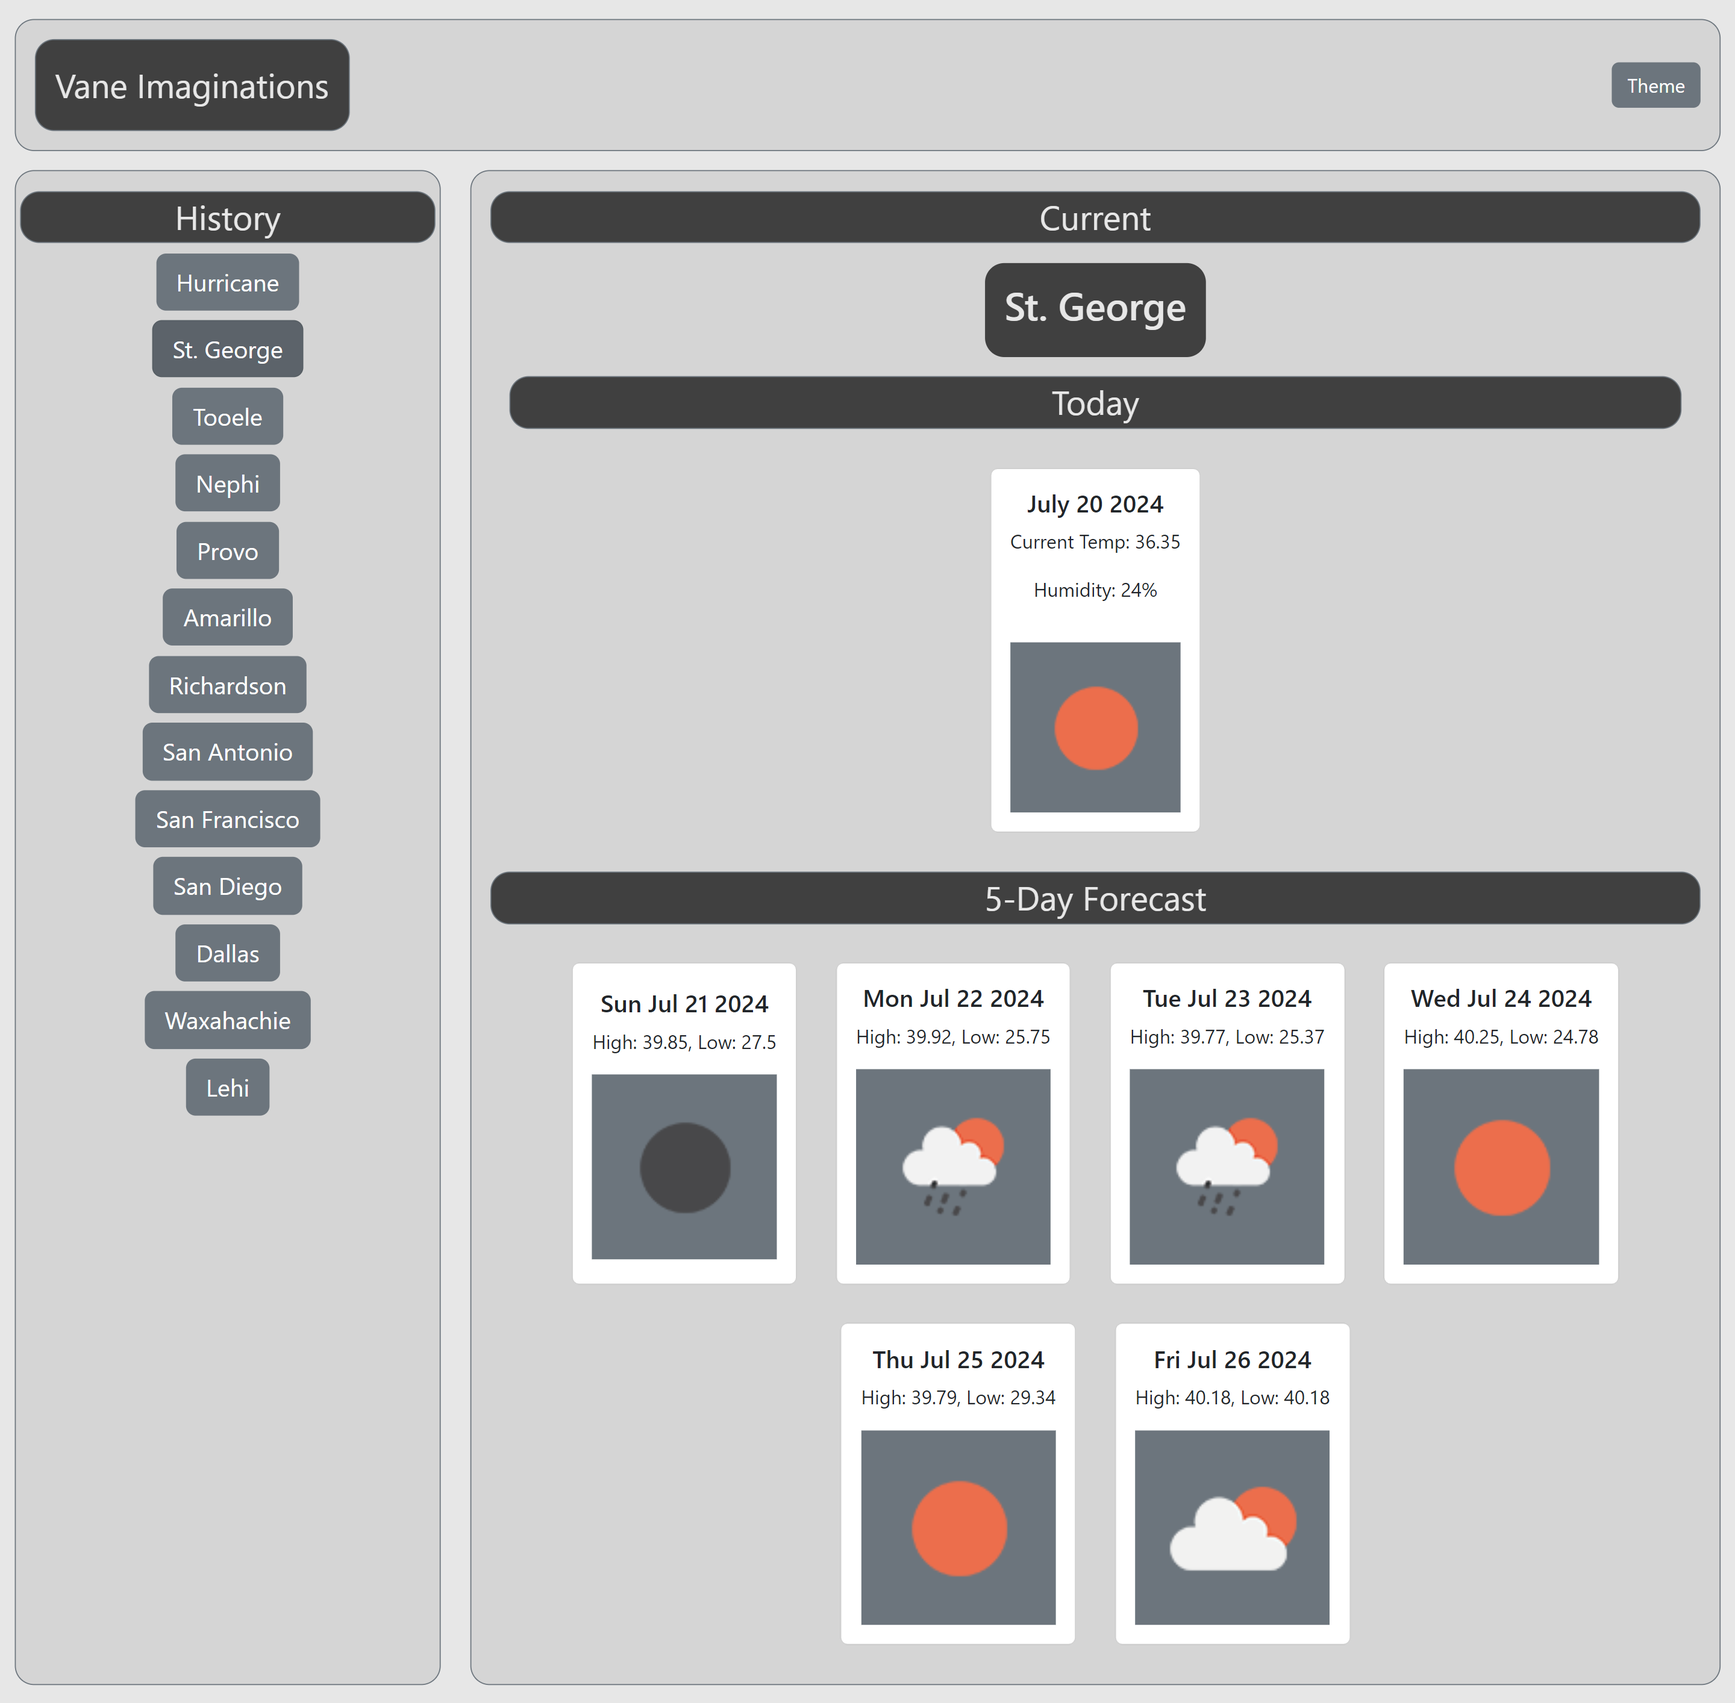
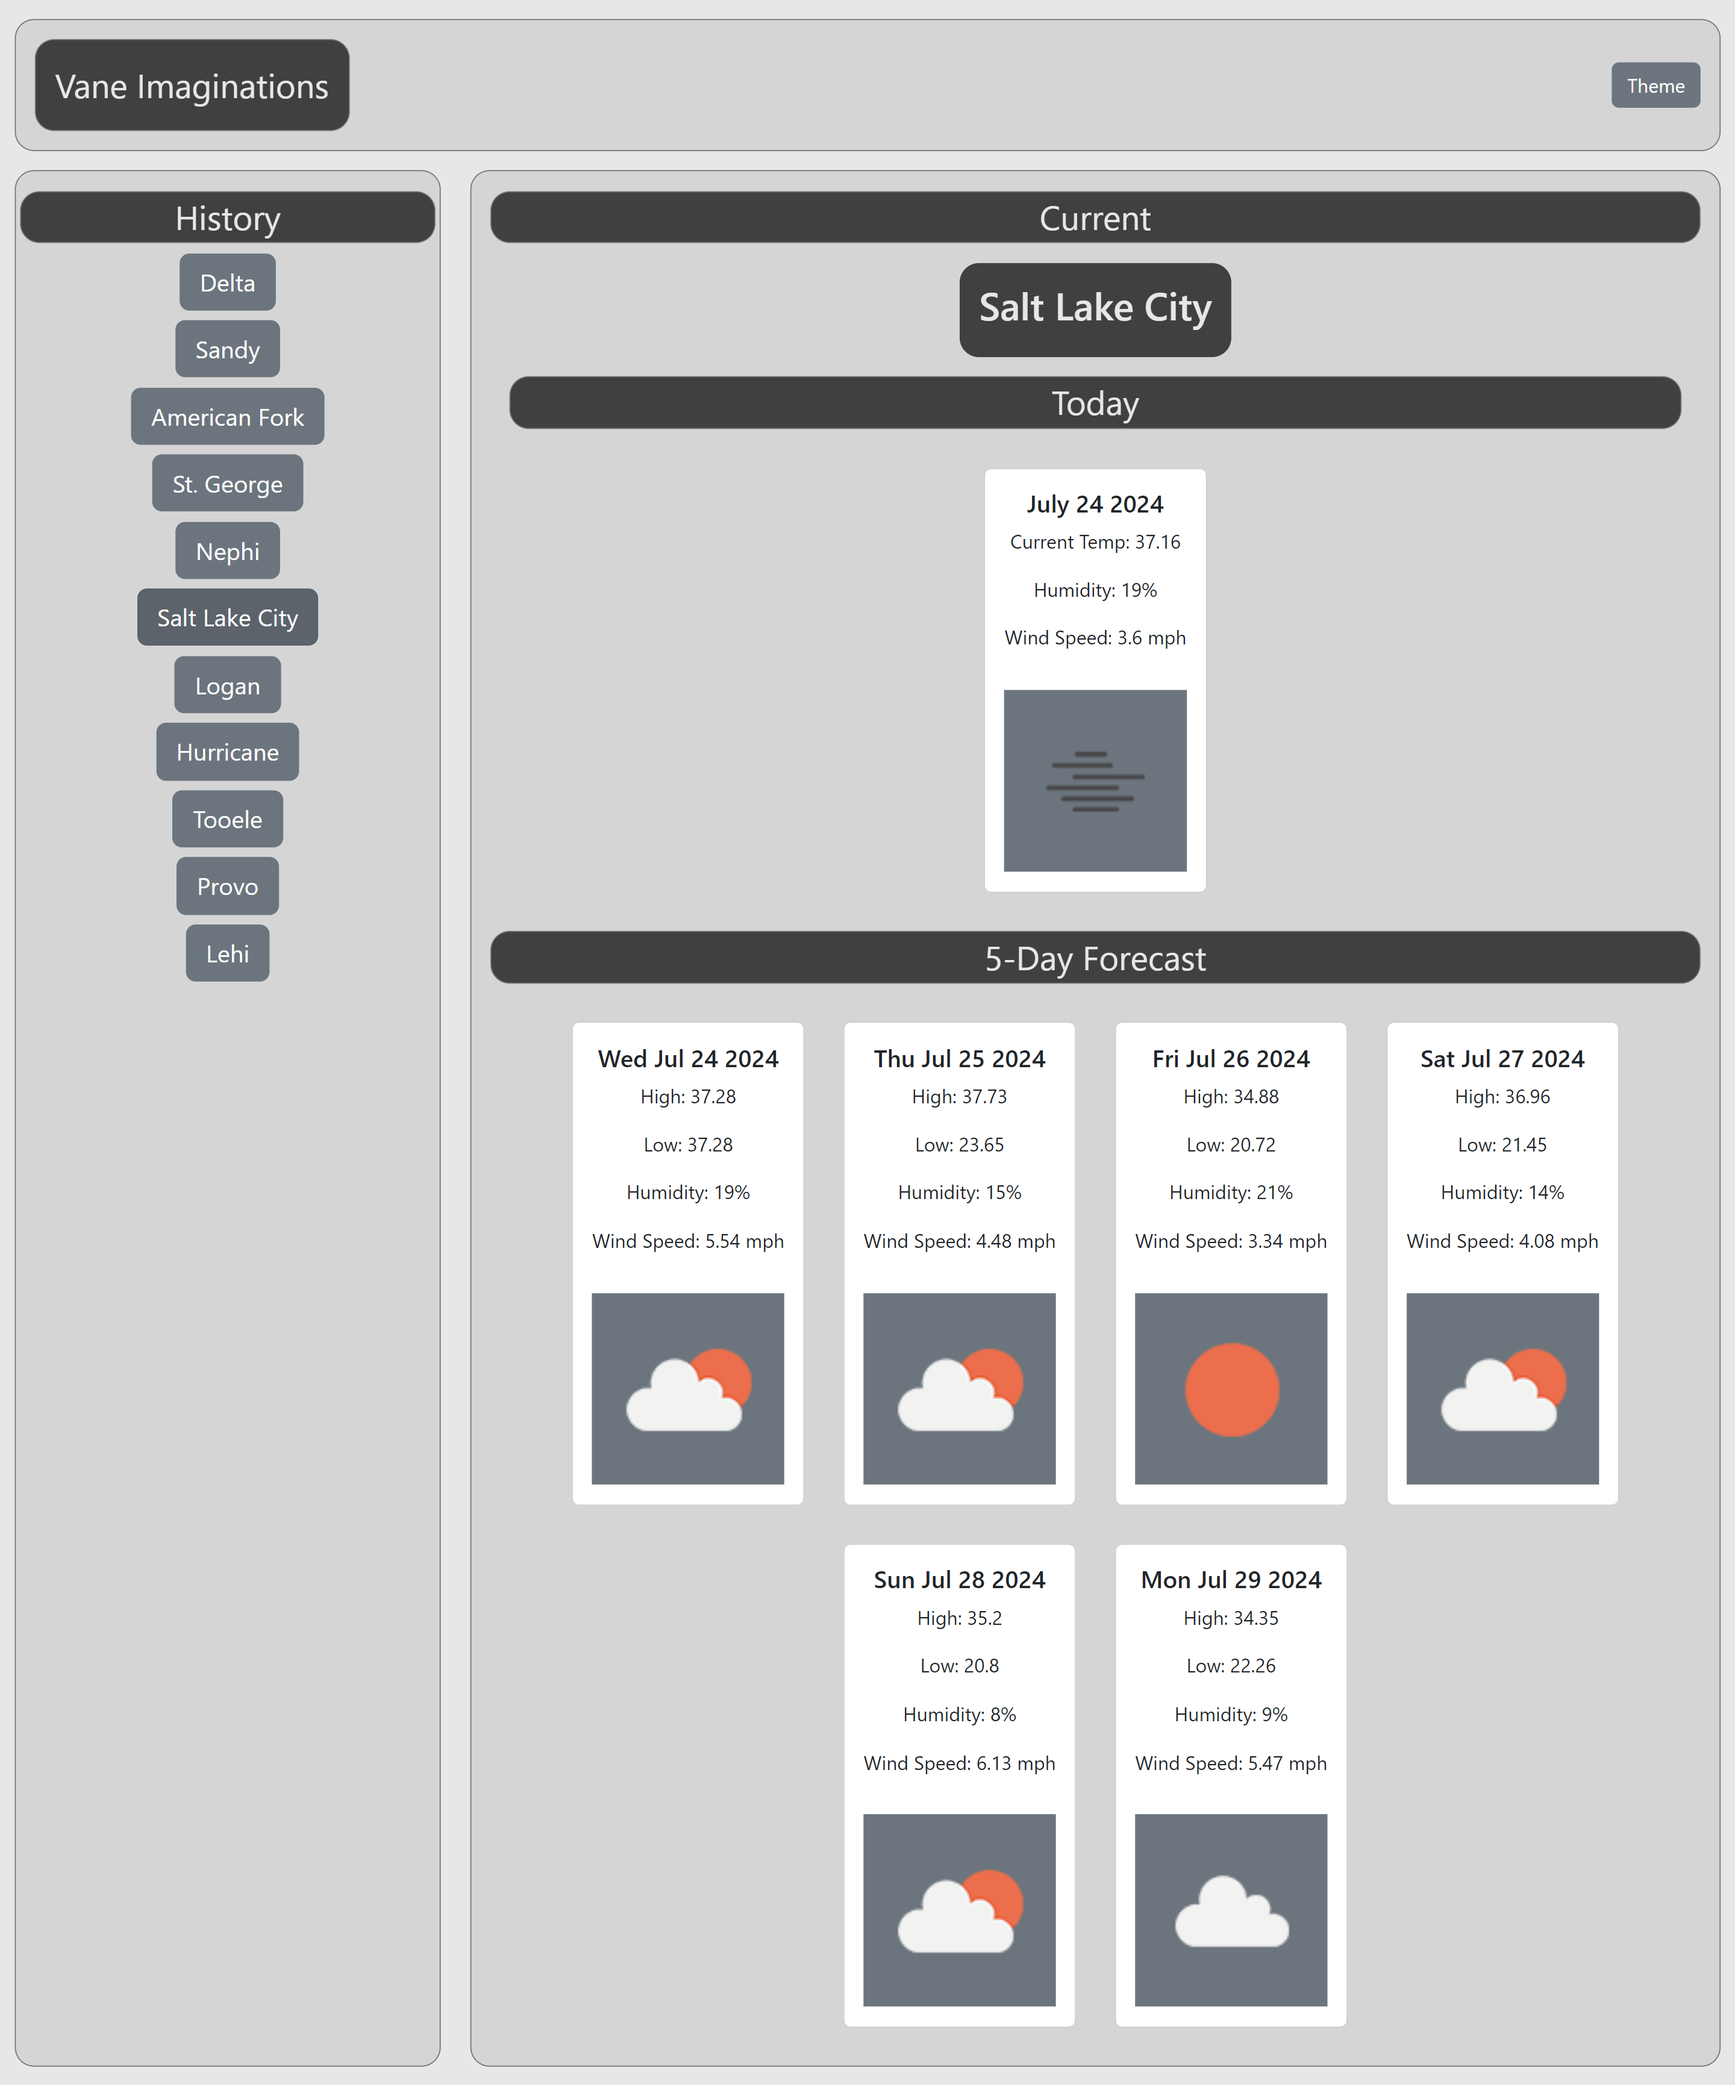
added humidity and wind speed to forecast cards and updated readme

Changed region(s): [[0.2812, 0.0, 1.0, 0.9958], [0.0, 0.0, 0.25, 0.6535]]

diff --git a/assets/js/query.js b/assets/js/query.js
@@ -66,6 +66,7 @@ const displayCurrentForecast = function () {
     // Set data as variables
     const currentTemp = currentForecast.temperature;
     const currentHumidity = currentForecast.humidity;
+    const currentWindSpeed = currentForecast.windSpeed
     const currentIcon = currentForecast.icon;
 
     // Create the card and append all components
@@ -83,7 +84,8 @@ const displayCurrentForecast = function () {
     cardText.classList.add('card-text', 'd-flex', 'align-items-center', 'flex-column');
     cardText.innerHTML =` 
         <p>Current Temp: ${currentTemp}</p>
-        <p>Humidity: ${currentHumidity}%</p>`;
+        <p>Humidity: ${currentHumidity}%</p>
+        <p>Wind Speed: ${currentWindSpeed} mph</p>`;
 
     const icon = document.createElement('img');
     icon.classList.add('d-flex', 'justify-content-center', 'bg-secondary', 'img-responsive')
@@ -133,8 +135,11 @@ const displayFiveDayForecast = function () {
         const lowestTempText = `Low: ${dayLowestTempObj.temperature}`;
 
         const cardText = document.createElement('p');
-        cardText.classList.add('card-text', 'd-flex', 'justify-content-center');
-        cardText.textContent = `${highestTempText}, ${lowestTempText}`;
+        cardText.classList.add('card-text', 'd-flex', 'flex-column', 'align-items-center');
+        cardText.innerHTML = `<p>${highestTempText}</p>
+                                <p>${lowestTempText}</p>
+                                <p>Humidity: ${dayArray[0].humidity}%</p>
+                                <p>Wind Speed: ${dayArray[0].windSpeed} mph</p>`;
 
         const iconUrl = dayArray;
         const icon = document.createElement('img');
@@ -192,6 +197,7 @@ const populatePreviousCurrentForecast = function(index, cityName) {
     // Set data as variables
     const currentTemp = selectedForecast.temperature;
     const currentHumidity = selectedForecast.humidity;
+    const currentWindSpeed = selectedForecast.windSpeed;
     const currentIcon = selectedForecast.icon;
 
     // Create the card and append all components
@@ -209,7 +215,8 @@ const populatePreviousCurrentForecast = function(index, cityName) {
     cardText.classList.add('card-text', 'd-flex', 'align-items-center', 'flex-column');
     cardText.innerHTML =` 
         <p>Current Temp: ${currentTemp}</p>
-        <p>Humidity: ${currentHumidity}%</p>`;
+        <p>Humidity: ${currentHumidity}%</p>
+        <p>Wind Speed: ${currentWindSpeed} mph</p>`;
 
     const icon = document.createElement('img');
     icon.classList.add('d-flex', 'justify-content-center', 'bg-secondary', 'img-responsive')
@@ -257,8 +264,11 @@ const populatePreviousFiveDayForecast = function (index, cityName) {
         const lowestTempText = `Low: ${dayLowestTempObj.temperature}`;
 
         const cardText = document.createElement('p');
-        cardText.classList.add('card-text', 'd-flex', 'justify-content-center');
-        cardText.textContent = `${highestTempText}, ${lowestTempText}`;
+        cardText.classList.add('card-text', 'd-flex', 'flex-column', 'align-items-center');
+        cardText.innerHTML = `<p>${highestTempText}</p>
+                                <p>${lowestTempText}</p>
+                                <p>Humidity: ${dayArray[0].humidity}%</p>
+                                <p>Wind Speed: ${dayArray[0].windSpeed} mph</p>`;
 
         const iconUrl = dayArray[0].icon;
         const icon = document.createElement('img');
